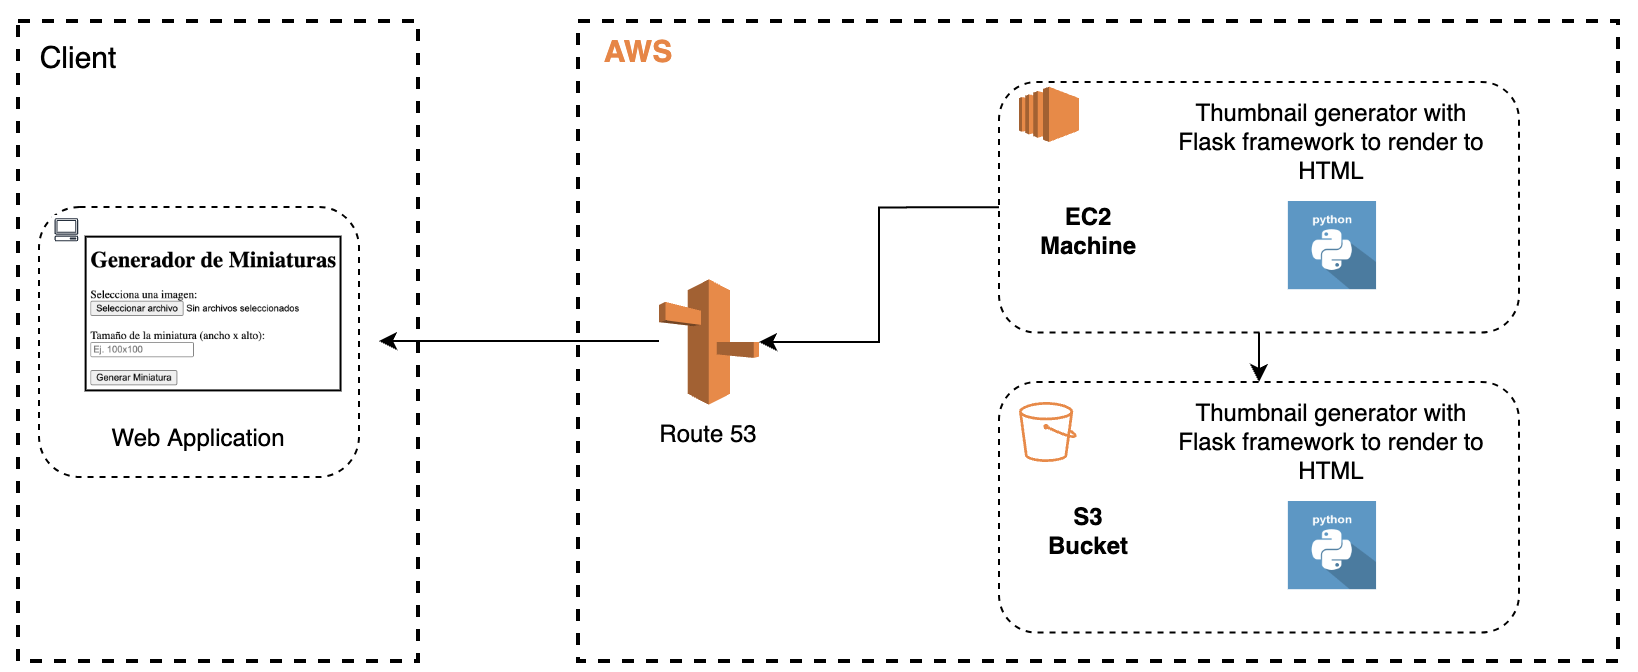
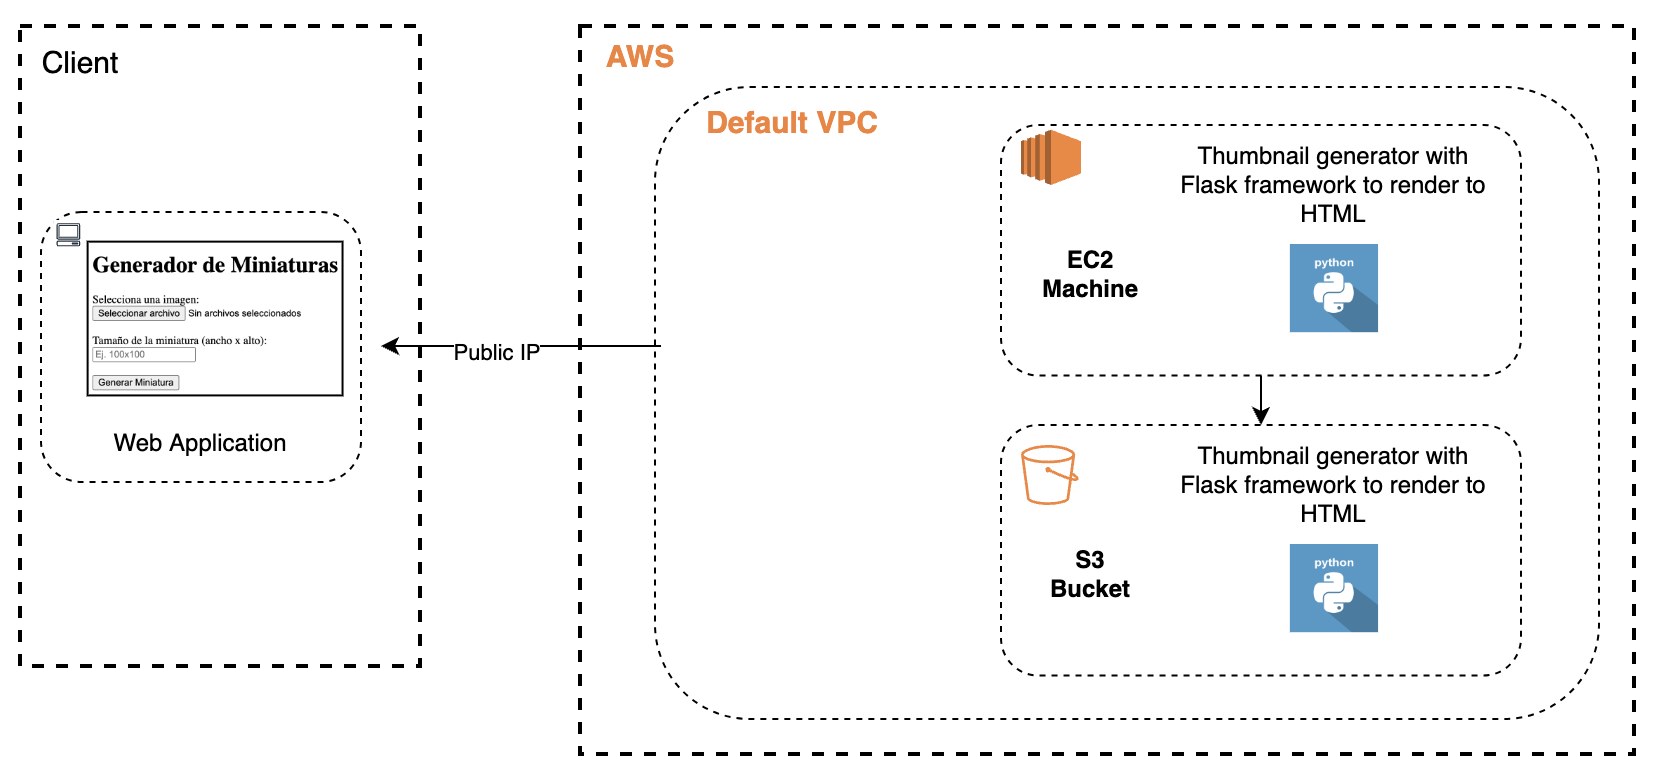
feat: add aws objects

diff --git a/app/main.py b/app/main.py
@@ -6,12 +6,20 @@ import os
 from flask import Flask, request, render_template, send_file
 from PIL import Image
 from utils.read_config_file import YamlDataLoader
+import boto3
+from io import BytesIO
+from datetime import datetime
 
 
 app = Flask(__name__)
 yaml_data_loader = YamlDataLoader(file_path="config.yml")
 config_params = yaml_data_loader.read_yaml_file()
 app.config["UPLOAD_FOLDER"] = config_params["upload_folder"]
+
+# Configura las credenciales de AWS
+s3 = boto3.client('s3',
+                  aws_access_key_id=config_params["aws_access_key_id"],
+                  aws_secret_access_key=config_params["aws_secret_access_key"])
 
 
 def generate_thumbnail(image, size):
@@ -56,6 +64,16 @@ def generate():
         width = height = 100
     thumbnail = generate_thumbnail(image, size=(width, height))
     thumbnail.save(os.path.join(config_params["upload_folder"], config_params["filename"]))
+    
+    # Convert the img object to bytes
+    buffer = BytesIO()
+    thumbnail.save(buffer, format='JPEG')
+    buffer.seek(0)
+    
+    # Save into S3 bucket
+    bucket_name = config_params["bucket"]
+    s3_filename = f"imagen{datetime.now().strftime('%Y%m%d')}.jpeg"
+    s3.upload_fileobj(buffer, bucket_name, s3_filename)
     return render_template(config_params["result_page"], filename=config_params["filename"])
 
 

diff --git a/README.md b/README.md
@@ -13,37 +13,54 @@ This is a Flask application that allows users to generate and serve image thumbn
 ```bash
 git clone https://github.com/JesusGaleana/thumbnail_generator.git
 ```
-2. Go to poject folder.   
+2. Go to poject folder in local repository.   
 
-3. Start the services into docker-compose file and run the application:
+3. Go to AWS console and create a Key Pairs for EC2 instances with the name "keypair-testing"
+
+4. Copy the .pem file into the project folder
+
+5. Create a bucket and EC2 instance with cloudformation, executing:
+* Note: For this and the next step is required the AWS cli installed and the Access Key and secret key into ~/.aws/credentials file.
 ```bash
-docker-compose up
+aws cloudformation create-stack --stack-name stack-test --template-body file://template.yml --capabilities CAPABILITY_IAM
+```
+
+6. When the stack was created successfully, update the "deploy.sh" file in the line 7, update the public IP with your instance's public IP
+```bash
+PUBLIC_IP="your-public-ip"
+```
+
+7. Execute the deploy.sh file
+```bash
+./deploy.sh
 ```
 
 ## Usage
-1. Access the application in your browser at http://localhost:8088.
+1. Access the application in your browser at public IP assign in EC2 instance
+* Example. http://34.219.149.66:5000/
 2. Upload an image.
 3. Optionally, customize the thumbnail size. Ex. 200x200
 4. Click on "Generate Thumbnail" to generate the thumbnail.
 5. Download the generated thumbnail or view it in the browser.
+6. Now, The thumbnail is in thumbnail-app-bucket in AWS S3, you can also download from there.
 
 ## Configuration
 Configuration parameters such as upload folder location or HTML templates can be set in the config.yml file.  
 This configuration is only for developer.
 
 ## Infrastructure
-For now, this application is  hosted into docker container, you can see the infrastructure diagram bellow:  
-
-![Docker-infrastructure-diagram](Documentation/infrastructure-diagram.png)  
-
-### Migration to Cloud
+### In Cloud
 This application can hosted into cloud services such as AWS, the services and the diagram that could be in the cloud are bellow:  
 
 - EC2: With this cloud computing service we can host the application for thumbnail generator.
 - S3: With this cloud storage service we can host the user uploaded images and generated images.
-- Route 53: With this service we can create a domain to access to EC2 machine IP and the web application.
 
 ![Cloud-infrastructure-diagram](Documentation/cloud-infrastructure-diagram.png)  
+
+### With Docker
+This application is  hosted into docker container, you can see the infrastructure diagram bellow:  
+
+![Docker-infrastructure-diagram](Documentation/infrastructure-diagram.png)  
 
 
 ## License
